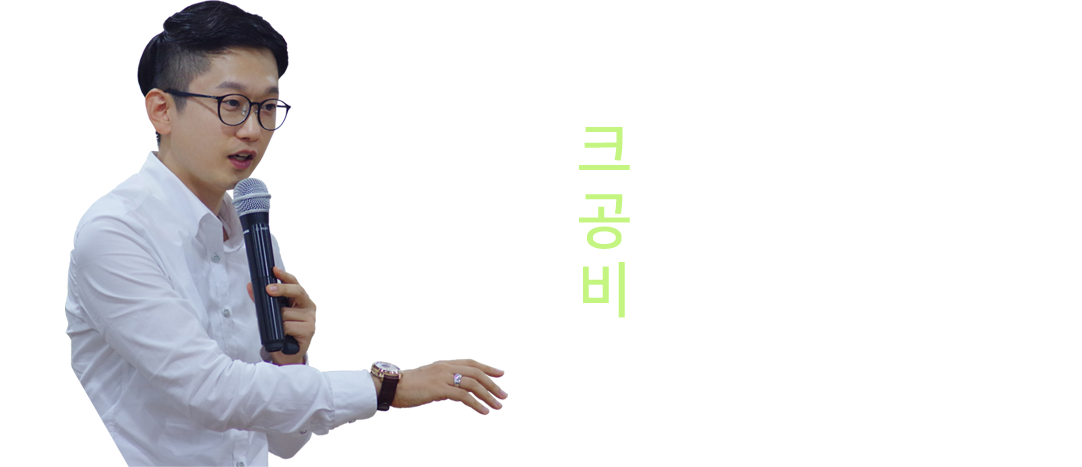
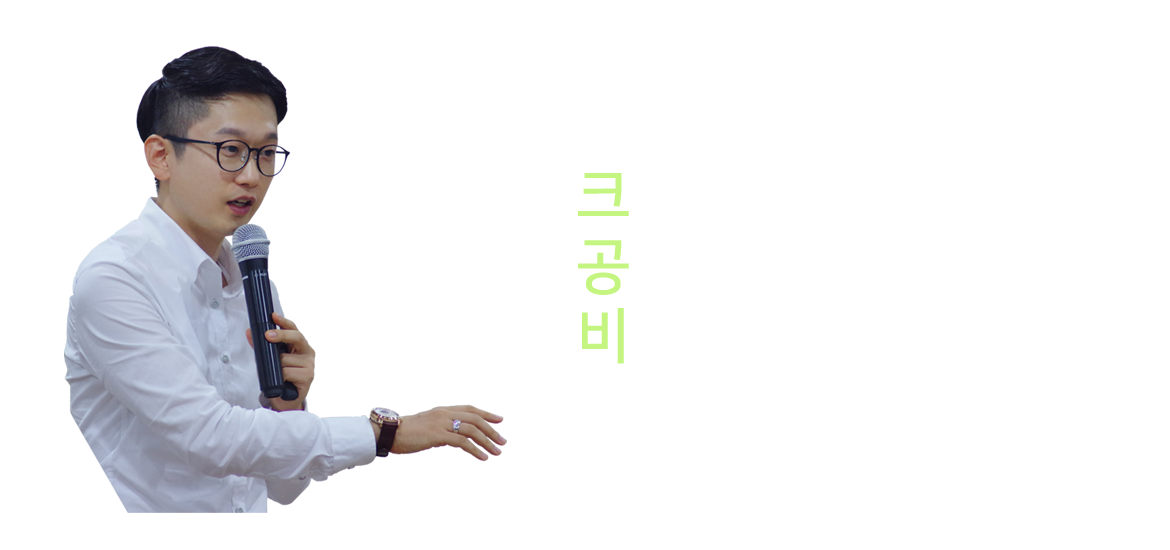
메인 슬라이더 작업중

diff --git a/src/components/MainSlider.js b/src/components/MainSlider.js
@@ -1,77 +1,126 @@
 import React, { useState, useEffect, useRef } from "react";
 import styled from "styled-components";
+import slide1 from '../assets/slide1.png';
+import slide2 from '../assets/slide2.png';
+import slide3 from '../assets/slide3.png';
+import slide4 from '../assets/slide4.png';
+import effect from '../assets/effect.png';
 
 const Slide = styled.div`
-  // width: 100%;
-  height: 30vh;
+  width: 100%;
   flex: 0 0 100%;
+
+  & img{
+    width:100%;
+  }
 `;
 
 const Container = styled.div`
-  width: 60%;
-  overflow: hidden; // 선을 넘어간 이미지들은 보이지 않도록 처리합니다.
-`;
-
-const Button = styled.button`
-  all: unset;
-  border: 1px solid coral;
-  padding: 0.5em 2em;
-  color: coral;
-  border-radius: 10px;
-  &:hover {
-    transition: all 0.3s ease-in-out;
-    background-color: coral;
-    color: #fff;
-  }
+  width: 100%;
+  overflow: hidden;
+  background-color : #493fd3;
+  background-image: url("${effect}");
+  background-repeat: no-repeat;
+  background-position : right 10px top 50px;
+  background-size: 150px auto;
 `;
 
 const SliderContainer = styled.div`
   width: 100%;
-  display: flex; //이미지들을 가로로 나열합니다.
+  display: flex;
 `;
+
+const PagerContainer = styled.ul`
+  color : #fff;
+  text-align:right;
+
+  & li {
+    display : inline-block;
+    padding: 8px;
+    font-size:20px;
+    list-style:none;
+    cursor: pointer;
+  }
+
+  & li.active{
+    text-decoration : underline;
+  }
+
+`
 
 const CarouselComponent = ({slideItem}) =>{
   return (
-    <Slide style={{backgroundColor : slideItem.color}}>
-        <h3>{slideItem.label}</h3>
-        <p>{slideItem.detail}</p>
+    <Slide>
+        <img src={slideItem.img} alt="슬라이드 이미지" />
     </Slide>
   )
 }
 
-const TOTAL_SLIDES = 2;
+
+
+const TOTAL_SLIDES = 3;
+var active1 = ''
+var active2 = ''
+var active3 = ''
+var active4 = ''
 
 const MainSlider = () => {
     const [currentSlide, setCurrentSlide] = useState(0);
     const slideRef = useRef(null);
-
-    const nextSlide = () => {
-        if (currentSlide >= TOTAL_SLIDES) { // 더 이상 넘어갈 슬라이드가 없으면 슬라이드를 초기화합니다.
-            setCurrentSlide(0);
-        } else {
-            setCurrentSlide(currentSlide + 1);
-        }
-    };
-
-    const prevSlide = () => {
-        if (currentSlide === 0) {
-            setCurrentSlide(TOTAL_SLIDES);
-        } else {
-            setCurrentSlide(currentSlide - 1);
-        }
-    };
     
 
     const slideItem = [
-      {num : 1, label : 'First slide label', detail : '첫번째 슬라이더에 관련된 내용입니다.', color: 'blue'},
-      {num : 2, label : 'Second slide label', detail : '두번째 슬라이더에 관련된 내용입니다.', color : 'red'},
-      {num : 3, label : 'Third slide label', detail : '세번째 슬라이더에 관련된 내용입니다.', color : 'yellow'}
+      {num : 1, img : slide1},
+      {num : 2, img : slide2},
+      {num : 3, img : slide3},
+      {num : 4, img : slide4}
     ]
+
     const slideContent = slideItem.map((slideItem, index)=> <CarouselComponent slideItem={slideItem} key={index} />);
     
+    function pager1(){
+      setCurrentSlide(0)
+    }
+
+    function pager2(){
+      setCurrentSlide(1)
+    }
+
+    function pager3(){
+      setCurrentSlide(2)
+    }
+
+    function pager4(){
+      setCurrentSlide(3)
+    }
+    
+    const Pager = (()=>{
+      return (
+        <PagerContainer>
+          <li onClick={()=>pager1()} className={active1} >01</li>
+          <li onClick={()=>pager2()} className={active2} >02</li>
+          <li onClick={()=>pager3()} className={active3} >03</li>
+          <li onClick={()=>pager4()} className={active4} >04</li>
+        </PagerContainer>
+      )
+    }) 
+
     useEffect(() => {
         slideRef.current.style.transition = "all 0.5s ease-in-out";
         slideRef.current.style.transform = `translateX(-${currentSlide}00%)`; // 백틱을 사용하여 슬라이드로 이동하는 애니메이션을 만듭니다.
+        active1 = '';
+        active2 = '';
+        active3 = '';
+        active4 = '';
+        if(currentSlide === 0){
+          active1 = "active";
+        }else if(currentSlide === 1){
+          active2 = "active";
+        }else if(currentSlide === 2){
+          active3 = "active";
+        }else if(currentSlide === 3){
+          active4 = "active";
+        }
       }, [currentSlide]);
     
     setInterval(() => {
@@ -91,13 +140,10 @@ const MainSlider = () => {
 
     return(
       <Container>
-        {currentSlide}
+        <Pager />
         <SliderContainer ref={slideRef}>
             {slideContent}
         </SliderContainer>
-        <Button onClick={prevSlide}>Previous Slide</Button>
-        <Button onClick={nextSlide}>Next Slide</Button>
-        
       </Container>
     )
 }

diff --git a/src/pages/Main.js b/src/pages/Main.js
@@ -21,8 +21,8 @@ function Main() {
               </div>  
           </div>
         </div>
+        <MainSlider />
       </div>
-      <MainSlider />
     </main>
   );
 }

diff --git a/src/style/main.css b/src/style/main.css
@@ -4,6 +4,11 @@
 
 
 /* 공용 */
+.wrap{
+    width: 1165px;
+    margin:0 auto;
+}
+
 .contents{
     width: 1165px;
     margin:0 auto;

diff --git a/src/App.css b/src/App.css
@@ -8,7 +8,7 @@ body{
   font-family: 'Noto Sans KR';
 }
 
-ul{
+ul, li{
   list-style: none;
 }
 
